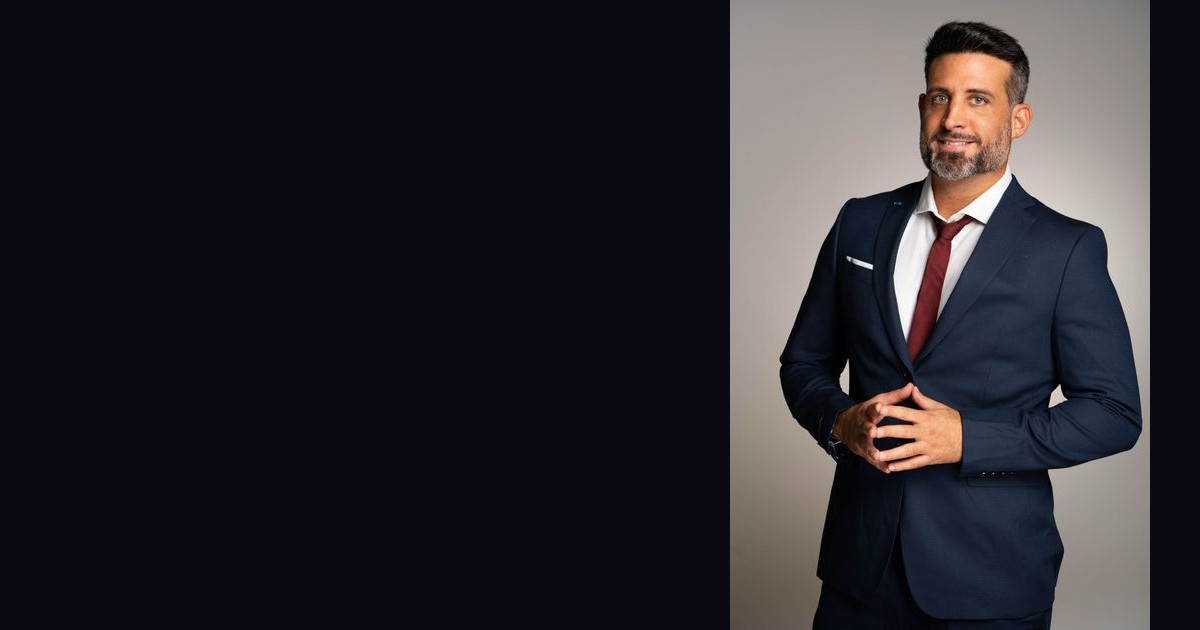
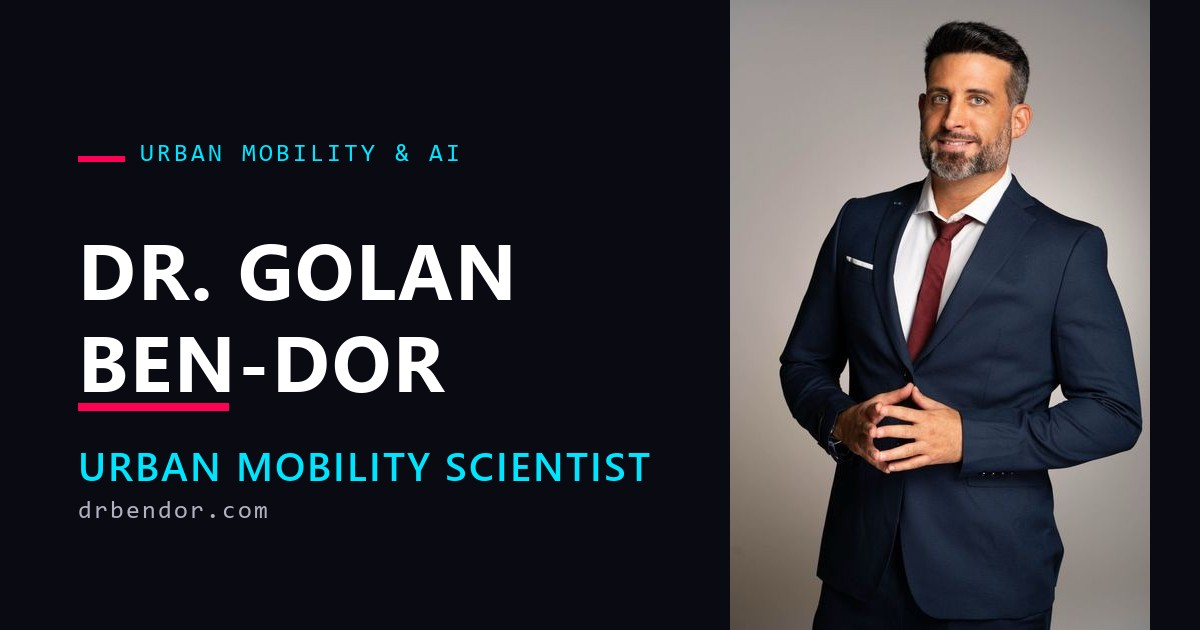
Fix titles, add branded 404 + OG image, surface /work index, mobile polish
- Dedupe browser-tab title suffix on /work, /accessibility, /privacy
  (parent template was appending the name a second time)
- Fix RTL arrow direction on Jerusalem publication card link (→ → ←)
- Bump footer year to 2026 (both languages)
- Add branded, language-aware 404 page (not-found.tsx) with site background
- Redesign og-image.jpg: add name/title/tagline on the previously empty
  left side (share-preview only; not shown on the site)
- Add "All Case Studies" card linking to the /work index (was orphaned),
  balancing the home projects grid to 3+3+2
- Add faint grayscale thumbnail backgrounds to /work index cards
- Mobile: compact 2-up trusted-logos grid and tidy footer link wrapping

diff --git a/src/app/[lang]/work/page.tsx b/src/app/[lang]/work/page.tsx
@@ -21,6 +21,7 @@ export default function WorkIndexPage() {
             icon: MapPin,
             color: 'var(--pop-pink)',
             link: `/${language}/work/jerusalem`,
+            thumb: '/sim%20video%20high%20res%20thumbnail.jpg',
             hasPage: true,
             featured: true,
         },
@@ -29,6 +30,7 @@ export default function WorkIndexPage() {
             icon: BarChart3,
             color: 'var(--pop-cyan)',
             link: `/${language}/work/google`,
+            thumb: '/google-thumbnail.jpg',
             hasPage: true,
             featured: false,
         },
@@ -37,6 +39,7 @@ export default function WorkIndexPage() {
             icon: Shield,
             color: 'var(--pop-lime)',
             link: `/${language}/work/beersheva`,
+            thumb: '/beer-sheva-thumbnail.jpg',
             hasPage: true,
             featured: false,
         },
@@ -45,6 +48,7 @@ export default function WorkIndexPage() {
             icon: Waypoints,
             color: 'var(--pop-pink)',
             link: `/${language}/work/counts`,
+            thumb: '/counts-thumbnail.jpg',
             hasPage: true,
             featured: false,
         },
@@ -53,6 +57,7 @@ export default function WorkIndexPage() {
             icon: BusFront,
             color: 'var(--pop-pink)',
             link: `/${language}/work/brt`,
+            thumb: '/brt-thumbnail.jpg',
             hasPage: true,
             featured: false,
         },
@@ -61,6 +66,7 @@ export default function WorkIndexPage() {
             icon: Map,
             color: 'var(--pop-cyan)',
             link: `/${language}/work/cordon`,
+            thumb: '/cordon-thumbnail.jpg',
             hasPage: true,
             featured: false,
         },
@@ -69,6 +75,7 @@ export default function WorkIndexPage() {
             icon: Cpu,
             color: 'var(--pop-cyan)',
             link: null,
+            thumb: null,
             hasPage: false,
             featured: false,
         },
@@ -182,6 +189,18 @@ export default function WorkIndexPage() {
                                         borderWidth: project.featured ? '1px' : undefined,
                                     }}
                                 >
+                                    {/* Thumbnail background */}
+                                    {project.thumb && (
+                                        <div
+                                            className="absolute inset-0 pointer-events-none bg-cover bg-center opacity-[0.12] grayscale group-hover:opacity-25 group-hover:grayscale-0 transition-all duration-500"
+                                            style={{
+                                                backgroundImage: `url("${project.thumb}")`,
+                                                WebkitMaskImage: `linear-gradient(to ${direction === 'rtl' ? 'left' : 'right'}, black, transparent 85%)`,
+                                                maskImage: `linear-gradient(to ${direction === 'rtl' ? 'left' : 'right'}, black, transparent 85%)`,
+                                            }}
+                                        />
+                                    )}
+
                                     {/* Featured Badge */}
                                     {project.featured && (
                                         <div
@@ -196,7 +215,7 @@ export default function WorkIndexPage() {
                                         </div>
                                     )}
 
-                                    <div className="flex flex-col md:flex-row gap-6 items-start">
+                                    <div className="relative z-10 flex flex-col md:flex-row gap-6 items-start">
                                         {/* Icon */}
                                         <div
                                             className="p-4 rounded-xl shrink-0"

diff --git a/src/app/not-found.tsx b/src/app/not-found.tsx
@@ -1,0 +1,98 @@
+'use client';
+
+import Link from 'next/link';
+import { usePathname } from 'next/navigation';
+import TrafficCanvas from '@/components/effects/TrafficCanvas';
+
+export default function NotFound() {
+    // Static export can't know the language at build time, so detect it
+    // from the current path (defaults to Hebrew, the site default).
+    const pathname = usePathname();
+    const isHebrew = !(pathname || '').startsWith('/en');
+
+    const direction = isHebrew ? 'rtl' : 'ltr';
+    const homeHref = isHebrew ? '/he' : '/en';
+
+    const t = isHebrew
+        ? {
+              code: '404',
+              title: 'הדף לא נמצא',
+              desc: 'נראה שהמסלול הזה לא קיים במפה. בואו נחזיר אתכם למסלול הראשי.',
+              cta: 'חזרה לדף הבית',
+          }
+        : {
+              code: '404',
+              title: 'Page Not Found',
+              desc: "This route isn't on the map. Let's get you back on the main road.",
+              cta: 'Back to Home',
+          };
+
+    return (
+        <>
+            {/* Background Effects - matches the rest of the site */}
+            <div className="grid-overlay" />
+            <TrafficCanvas />
+
+            <div
+                className="min-h-screen bg-transparent flex flex-col items-center justify-center px-6 text-center"
+                dir={direction}
+            >
+                <p
+                    style={{
+                        fontFamily: 'var(--font-fira-code)',
+                        color: 'var(--pop-cyan)',
+                        fontSize: '1rem',
+                        letterSpacing: '0.3em',
+                        marginBottom: '1rem',
+                    }}
+                >
+                    {'// ' + t.code}
+                </p>
+
+                <h1
+                    style={{
+                        fontFamily: 'var(--font-space-grotesk)',
+                        fontWeight: 800,
+                        textTransform: 'uppercase',
+                        fontSize: 'clamp(2.5rem, 12vw, 7rem)',
+                        lineHeight: 1,
+                        color: 'var(--pop-pink)',
+                        textShadow: '0 0 30px rgba(255, 0, 85, 0.4)',
+                        marginBottom: '1.5rem',
+                    }}
+                >
+                    {t.code}
+                </h1>
+
+                <h2
+                    style={{
+                        fontFamily: 'var(--font-space-grotesk)',
+                        fontWeight: 700,
+                        textTransform: 'uppercase',
+                        fontSize: 'clamp(1.25rem, 4vw, 2rem)',
+                        color: 'var(--text-primary)',
+                        marginBottom: '1rem',
+                    }}
+                >
+                    {t.title}
+                </h2>
+
+                <p
+                    style={{
+                        color: 'var(--text-secondary)',
+                        fontSize: '1.05rem',
+                        maxWidth: '32rem',
+                        lineHeight: 1.8,
+                        marginBottom: '2.5rem',
+                    }}
+                >
+                    {t.desc}
+                </p>
+
+                <Link href={homeHref} className="btn-primary">
+                    {t.cta}
+                </Link>
+            </div>
+        </>
+    );
+}

diff --git a/src/data/translations.ts b/src/data/translations.ts
@@ -83,7 +83,10 @@ export const translations = {
             cordon_link: "Explore the Map →",
             ai_title: "AI-Enhanced Workflows",
             ai_desc: "Pioneering AI-Native Development using Claude, Gemini, and Codex to accelerate simulation pipelines and automate complex spatial SQL queries.",
-            ai_link: "Learn More →"
+            ai_link: "Learn More →",
+            all_work_title: "All Case Studies",
+            all_work_desc: "Browse the full index of projects and case studies — methodology, agencies, status and tags for each.",
+            all_work_link: "View All →"
         },
         knowledge: {
             title: "Knowledge Hub",
@@ -155,7 +158,7 @@ export const translations = {
             phone: "+972-52-293-7463",
             phone_label: "SECURE LINE //",
             resume: "Resume",
-            footer: "© 2025 Golan Ben-Dor."
+            footer: "© 2026 Golan Ben-Dor."
         },
         footer_links: {
             accessibility: "Accessibility Statement",
@@ -753,7 +756,10 @@ export const translations = {
             cordon_link: "לצפייה במפה ←",
             ai_title: "תהליכים מועצמי AI",
             ai_desc: "פיתוח מבוסס בינה מלאכותית (AI-Native) באמצעות Claude, Gemini ו-Codex להאצת תהליכי סימולציה ואוטומציה של שאילתות מרחביות מורכבות.",
-            ai_link: "למד עוד ←"
+            ai_link: "למד עוד ←",
+            all_work_title: "כל מקרי הבוחן",
+            all_work_desc: "עיינו באינדקס המלא של הפרויקטים ומקרי הבוחן — מתודולוגיה, רשויות, סטטוס ותגיות לכל אחד.",
+            all_work_link: "לכל הפרויקטים ←"
         },
         knowledge: {
             title: "מרכז ידע",
@@ -825,7 +831,7 @@ export const translations = {
             phone: "052-293-7463",
             phone_label: "קו ישיר //",
             resume: "קורות חיים",
-            footer: "© 2025 גולן בן-דור."
+            footer: "© 2026 גולן בן-דור."
         },
         footer_links: {
             accessibility: "הצהרת נגישות",

diff --git a/src/app/[lang]/page.tsx b/src/app/[lang]/page.tsx
@@ -2,7 +2,7 @@
 
 import { useState } from 'react';
 import Image from 'next/image';
-import { Building2, Navigation, Map, BarChart2, MapPin, Eye, BrainCircuit, Play, PlayCircle, ExternalLink, Phone, Waypoints, BusFront } from 'lucide-react';
+import { Building2, Navigation, Map, BarChart2, MapPin, Eye, BrainCircuit, Play, PlayCircle, ExternalLink, Phone, Waypoints, BusFront, LayoutGrid } from 'lucide-react';
 import Link from 'next/link';
 import SiteBackground from '@/components/effects/SiteBackground';
 import HeroVideo from '@/components/effects/HeroVideo';
@@ -1071,6 +1071,18 @@ export default function Home() {
               </p>
               <a href="#" style={{ color: 'var(--pop-cyan)', textDecoration: 'none', fontWeight: 'bold' }}>{t.work.ai_link}</a>
             </div>
+
+            {/* Item 8 - All Case Studies index */}
+            <Link href={`/${language}/work`} className="block h-full">
+              <div className="work-card cursor-pointer h-full hover:!border-[var(--pop-cyan)] hover:!shadow-[0_10px_40px_-10px_rgba(0,229,255,0.3),inset_0_0_20px_rgba(0,229,255,0.1)]" style={{ display: 'flex', flexDirection: 'column' }}>
+                <div className="work-icon"><LayoutGrid strokeWidth={1} size={32} /></div>
+                <h3 className="work-title">{t.work.all_work_title}</h3>
+                <p className="work-desc">
+                  {t.work.all_work_desc}
+                </p>
+                <span style={{ color: 'var(--pop-cyan)', fontWeight: 'bold', marginTop: 'auto' }}>{t.work.all_work_link}</span>
+              </div>
+            </Link>
           </div>
         </section>
 
@@ -1156,7 +1168,7 @@ export default function Home() {
                       transition: 'all 0.3s ease',
                     }}
                   >
-                    {language === 'en' ? 'View Case Study' : 'לצפייה במקרה הבוחן'} →
+                    {language === 'en' ? 'View Case Study →' : 'לצפייה במקרה הבוחן ←'}
                   </Link>
                 </div>
                 {/* Paper 2 */}

diff --git a/src/app/[lang]/work/layout.tsx b/src/app/[lang]/work/layout.tsx
@@ -16,8 +16,8 @@ export async function generateMetadata({ params }: { params: Promise<{ lang: str
   const isHebrew = lang === 'he';
 
   const title = isHebrew
-    ? "מקרי בוחן ופרויקטים | ד״ר גולן בן-דור"
-    : "Case Studies & Projects | Dr. Golan Ben-Dor";
+    ? "מקרי בוחן ופרויקטים"
+    : "Case Studies & Projects";
 
   const description = isHebrew
     ? "גלו מקרי בוחן מפורטים מעבודתי עם סוכנויות התחבורה המובילות בישראל - סימולציה מבוססת סוכנים, MATSim, ואנליטיקת תנועה."

diff --git a/src/app/globals.css b/src/app/globals.css
@@ -968,6 +968,32 @@ nav {
     text-align: center;
   }
 
+  /* Compact 2-up logo grid on mobile (was one tall full-width stack) */
+  .trusted-logos {
+    gap: 14px;
+  }
+
+  .trusted-logo {
+    width: auto;
+    padding: 12px;
+  }
+
+  .trusted-logo > div {
+    width: 120px !important;
+    height: 42px !important;
+  }
+
+  /* Keep footer links on one tidy line each; no mid-phrase breaks */
+  .social-links {
+    flex-wrap: wrap;
+    gap: 14px 22px;
+  }
+
+  .social-links a {
+    font-size: 1rem;
+    white-space: nowrap;
+  }
+
   .hero-visual {
     justify-content: center;
     margin-top: 50px;

diff --git a/src/app/[lang]/accessibility/layout.tsx b/src/app/[lang]/accessibility/layout.tsx
@@ -14,8 +14,8 @@ export async function generateMetadata({ params }: { params: Promise<{ lang: str
   const isHebrew = lang === 'he';
 
   const title = isHebrew
-    ? "הצהרת נגישות | ד״ר גולן בן-דור"
-    : "Accessibility Statement | Dr. Golan Ben-Dor";
+    ? "הצהרת נגישות"
+    : "Accessibility Statement";
 
   const description = isHebrew
     ? "הצהרת הנגישות של אתר ד״ר גולן בן-דור — מחויבות לנגישות דיגיטלית בהתאם לחוק שוויון זכויות לאנשים עם מוגבלות ותקן WCAG 2.0."

diff --git a/src/app/[lang]/privacy/layout.tsx b/src/app/[lang]/privacy/layout.tsx
@@ -14,8 +14,8 @@ export async function generateMetadata({ params }: { params: Promise<{ lang: str
   const isHebrew = lang === 'he';
 
   const title = isHebrew
-    ? "מדיניות פרטיות | ד״ר גולן בן-דור"
-    : "Privacy Policy | Dr. Golan Ben-Dor";
+    ? "מדיניות פרטיות"
+    : "Privacy Policy";
 
   const description = isHebrew
     ? "מדיניות הפרטיות של אתר ד״ר גולן בן-דור. אתר זה אינו אוסף מידע אישי."
